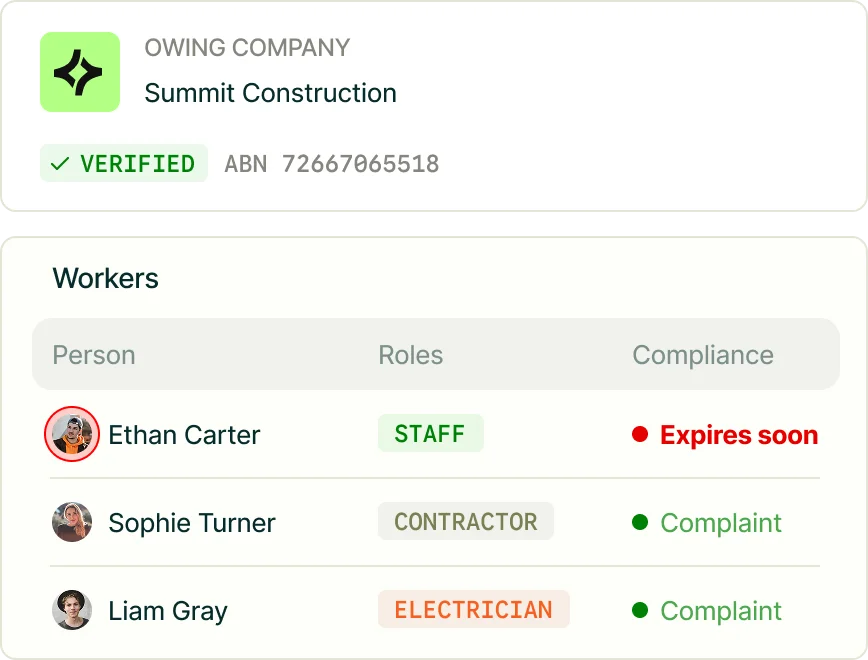
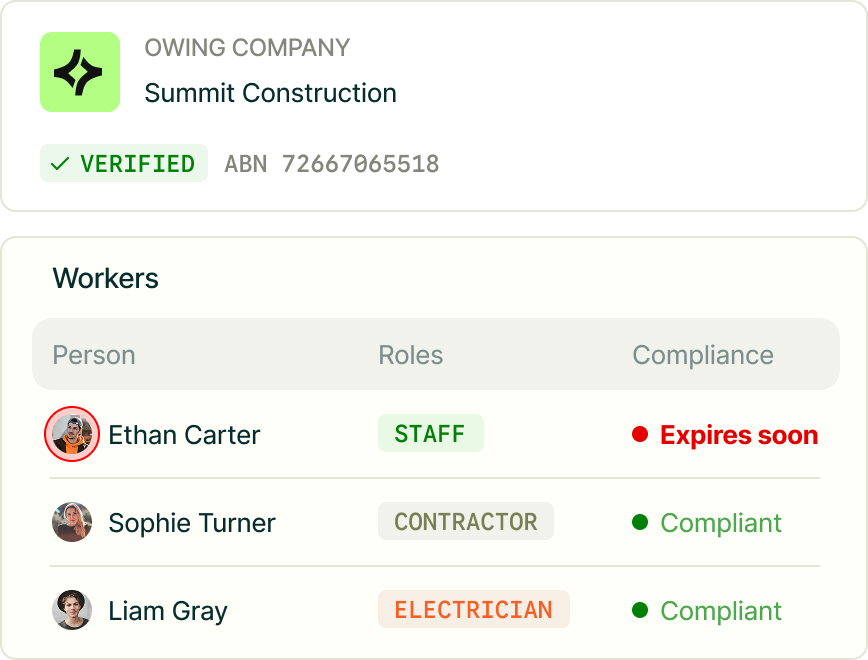
Solution Img Update& Benifit Text Update

diff --git a/src/components/Benifits/Benifits.jsx b/src/components/Benifits/Benifits.jsx
@@ -290,7 +290,7 @@ const contentByAudience = {
       },
       {
         id: "contractors-voice-reporting",
-        title: "Know your team is work ready before they step on site",
+        title: "Know where your team is and when they checked in",
         image: clientLottieSix,
         imageAlt:
           "Worker on an industrial site using a mobile safety reporting workflow",
